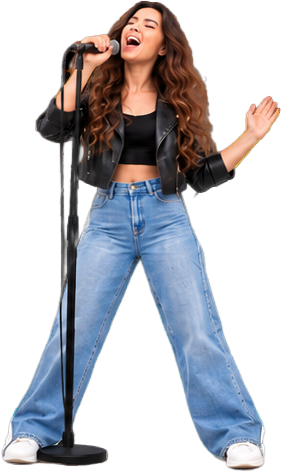
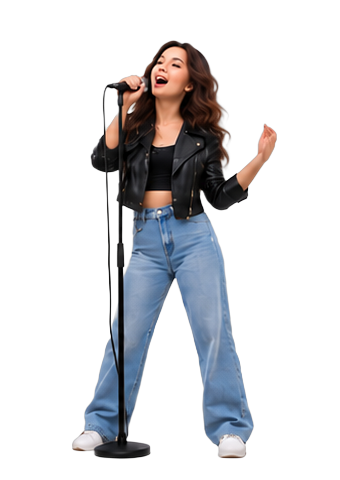
feat(grow): update 3D singer frames from new update singers images with smooth aligned rotation

diff --git a/src/components/GrowSection.jsx b/src/components/GrowSection.jsx
@@ -65,17 +65,18 @@ export default function GrowSection({ onNavigate, lang = 'en' }) {
     return () => clearInterval(timer);
   }, [isPaused, activePage]);
 
-  // 9 isolated 3D singer frames extracted directly from user's "all singers.png"
+  // 10 isolated 3D singer frames extracted directly from user's "new update singers images.png"
   const SINGER_FRAMES = [
     { angle: 0,   src: '/singers/female_0.png',   label: 'Female · 0° (Front)' },
-    { angle: 45,  src: '/singers/female_45.png',  label: 'Female · 45°' },
-    { angle: 90,  src: '/singers/female_90.png',  label: 'Female · 90° (Profile)' },
-    { angle: 135, src: '/singers/female_135.png', label: 'Female · 135°' },
-    { angle: 180, src: '/singers/female_180.png', label: 'Female · 180° (Back)' },
-    { angle: 225, src: '/singers/male_225.png',   label: 'Male · 225° (Back-Left)' },
-    { angle: 270, src: '/singers/male_270.png',   label: 'Male · 270° (Back)' },
-    { angle: 315, src: '/singers/male_315.png',   label: 'Male · 315° (Front-Left)' },
-    { angle: 350, src: '/singers/male_350.png',   label: 'Male · 350° (Facing Front)' },
+    { angle: 36,  src: '/singers/female_45.png',  label: 'Female · 36°' },
+    { angle: 72,  src: '/singers/female_90.png',  label: 'Female · 72° (Profile)' },
+    { angle: 108, src: '/singers/female_135.png', label: 'Female · 108°' },
+    { angle: 144, src: '/singers/female_180.png', label: 'Female · 144° (Back)' },
+    { angle: 180, src: '/singers/male_225.png',   label: 'Male · 180° (Profile)' },
+    { angle: 216, src: '/singers/male_270.png',   label: 'Male · 216° (Back-Left)' },
+    { angle: 252, src: '/singers/male_300.png',   label: 'Male · 252° (Side-Left)' },
+    { angle: 288, src: '/singers/male_315.png',   label: 'Male · 288° (Front-Left)' },
+    { angle: 324, src: '/singers/male_350.png',   label: 'Male · 324° (Front)' },
   ];
 
   // Mouse Movement Interaction: Moving mouse across the section rotates the singer 360°
@@ -146,28 +147,24 @@ export default function GrowSection({ onNavigate, lang = 'en' }) {
     };
   }, []);
 
-  // Preload all frames for instant switching
+  // Preload all frames for instant switching with zero stutter or white flash
   useEffect(() => {
     SINGER_FRAMES.forEach(frame => {
       const img = new Image();
       img.src = frame.src;
+      if (img.decode) {
+        img.decode().catch(() => {});
+      }
     });
   }, []);
 
   const currentAngle = scrollProgress * 360;
 
-  // Active frame index selection
+  // Active frame index selection: smooth continuous 36-degree segmentation across 10 frames
   const getActiveFrameIndex = (angle) => {
-    if (angle < 22.5) return 0;       // 0° female front
-    if (angle < 67.5) return 1;       // 45° female
-    if (angle < 112.5) return 2;      // 90° female profile
-    if (angle < 157.5) return 3;      // 135° female back-three-quarter
-    if (angle < 202.5) return 4;      // 180° female full back
-    if (angle < 247.5) return 5;      // 225° male back-three-quarter
-    if (angle < 292.5) return 6;      // 270° male full back
-    if (angle < 332.5) return 7;      // 315° male front-three-quarter
-    if (angle < 356) return 8;        // 350° male front
-    return 0;                         // 360° wraps to 0° female front
+    const normalized = ((angle % 360) + 360) % 360;
+    const index = Math.floor(normalized / 36);
+    return Math.min(SINGER_FRAMES.length - 1, Math.max(0, index));
   };
 
   const activeIndex = getActiveFrameIndex(currentAngle);
@@ -670,8 +667,8 @@ export default function GrowSection({ onNavigate, lang = 'en' }) {
                       width: 'auto',
                       objectFit: 'contain',
                       opacity: isCurrent ? 1 : 0,
-                      transform: isCurrent ? 'scale(1)' : 'scale(0.98)',
-                      transition: 'opacity 0.12s ease-out, transform 0.12s ease-out',
+                      transform: isCurrent ? 'scale(1)' : 'scale(0.995)',
+                      transition: 'opacity 0.08s ease-out',
                       pointerEvents: 'none',
                       userSelect: 'none',
                       filter: 'drop-shadow(0 25px 40px rgba(0, 0, 0, 0.55)) drop-shadow(0 0 24px rgba(0, 229, 255, 0.28))'

diff --git a/scripts/extract_singers.py b/scripts/extract_singers.py
@@ -1,28 +1,71 @@
 import os
 from PIL import Image
+import numpy as np
 
-os.makedirs('public/singers', exist_ok=True)
-img = Image.open('public/singers/all singers.png')
+# Load source sprite image provided by user
+src_path = 'public/singers/new update singers images.png'
+if not os.path.exists(src_path):
+    raise FileNotFoundError(f"Source sprite not found: {src_path}")
 
-slices = [
-    ('female_0',   (30, 0, 316, 488)),
-    ('female_45',  (370, 0, 665, 488)),
-    ('female_90',  (668, 0, 921, 488)),
-    ('female_135', (938, 0, 1175, 488)),
-    ('female_180', (1226, 0, 1533, 488)),
-    ('male_225',   (60, 520, 345, 1024)),
-    ('male_270',   (450, 520, 726, 1024)),
-    ('male_315',   (840, 520, 1100, 1024)),
-    ('male_350',   (1228, 520, 1486, 1024)),
+img = Image.open(src_path)
+
+female_boxes = [
+    ('female_0',   (85, 21, 291, 442)),
+    ('female_45',  (417, 22, 623, 442)),
+    ('female_90',  (766, 18, 963, 444)),
+    ('female_135', (1096, 22, 1318, 443)),
+    ('female_180', (1435, 17, 1638, 441)),
 ]
 
-for name, box in slices:
-    cropped = img.crop(box)
-    bbox = cropped.getbbox()
-    if bbox:
-        cropped = cropped.crop(bbox)
-    cropped.save(f'public/singers/{name}.png')
-    print(f"Saved public/singers/{name}.png size: {cropped.size}")
+male_boxes = [
+    ('male_225', (71, 464, 294, 852)),
+    ('male_270', (407, 463, 629, 853)),
+    ('male_300', (757, 465, 962, 851)),
+    ('male_315', (1090, 466, 1283, 852)),
+    ('male_350', (1453, 464, 1660, 855)),
+]
 
-print("All 9 singer frames successfully generated directly from all singers.png!")
+CANVAS_W = 340
+CANVAS_H = 480
+BASELINE_Y = 460  # Y coordinate where the bottom of the base/feet touches
+CENTER_X = 170    # X coordinate of the center of rotation
 
+os.makedirs('public/singers', exist_ok=True)
+
+# Process female frames (target height ~421px)
+for name, box in female_boxes:
+    crop = img.crop(box)
+    w, h = crop.size
+    arr = np.array(crop)
+    pts = np.where(arr[:, :, 3] > 40)
+    center_x = np.mean(pts[1]) if len(pts[1]) > 0 else w / 2
+
+    canvas = Image.new('RGBA', (CANVAS_W, CANVAS_H), (0, 0, 0, 0))
+    paste_x = int(round(CENTER_X - center_x))
+    paste_y = int(round(BASELINE_Y - h))
+    canvas.paste(crop, (paste_x, paste_y), crop)
+    canvas.save(f'public/singers/{name}.png')
+    print(f'Saved public/singers/{name}.png: paste=({paste_x}, {paste_y}), crop_size=({w}, {h})')
+
+# Process male frames: scale slightly to match head height of ~421px for seamless continuity
+target_male_h = 421.0
+for name, box in male_boxes:
+    crop = img.crop(box)
+    w, h = crop.size
+    scale = target_male_h / h
+    new_w = int(round(w * scale))
+    new_h = int(round(h * scale))
+    crop_scaled = crop.resize((new_w, new_h), Image.Resampling.LANCZOS)
+
+    arr = np.array(crop_scaled)
+    pts = np.where(arr[:, :, 3] > 40)
+    center_x = np.mean(pts[1]) if len(pts[1]) > 0 else new_w / 2
+
+    canvas = Image.new('RGBA', (CANVAS_W, CANVAS_H), (0, 0, 0, 0))
+    paste_x = int(round(CENTER_X - center_x))
+    paste_y = int(round(BASELINE_Y - new_h))
+    canvas.paste(crop_scaled, (paste_x, paste_y), crop_scaled)
+    canvas.save(f'public/singers/{name}.png')
+    print(f'Saved public/singers/{name}.png: scale={scale:.3f}, paste=({paste_x}, {paste_y}), scaled_size=({new_w}, {new_h})')
+
+print("All 10 singer frames successfully generated with standardized canvas alignment!")
